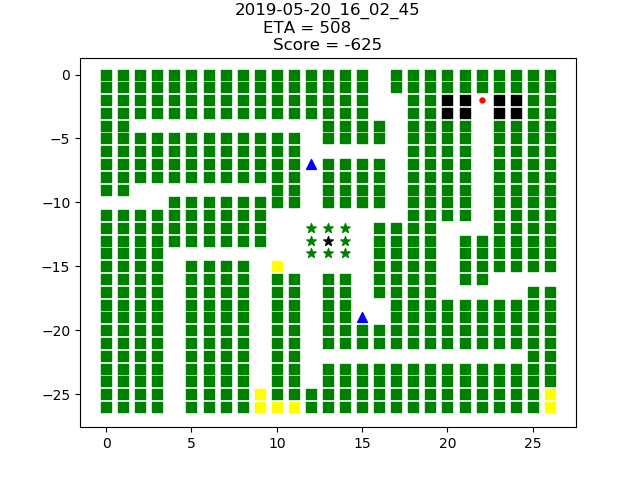
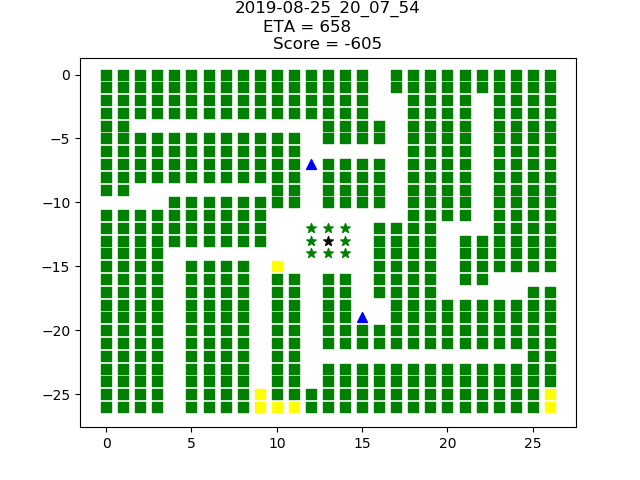
Readme

Changed region(s): [[0.3438, 0.0, 0.6562, 0.125], [0.6875, 0.1875, 0.8438, 0.25]]

diff --git a/GA_optimal_city_PLAN.py b/GA_optimal_city_PLAN.py
@@ -235,7 +235,7 @@ class CGenetic():
         #     power_map.append([])
         #     for col in range(self.COLUMNS):
         #         power_map[row].append
-        for k in range(20):
+        for k in range(25):
             f_path_updated = False
             for row,Row in enumerate(CityPlan):
                 for col,element in enumerate(Row):
@@ -718,8 +718,9 @@ refill=time_refill,eta=self.eta_now,logic=time_logic))
 
 cls()
 baza = CGenetic("Both",columns=27,rows=27,UNITS=10)
-baza.train(eta=10,shake_force=1,shake_chance=0.025,mutants_density=0.2,\
-    mutation_factor=0.2)
+for x in range(10):
+    baza.train(eta=1,shake_force=1,shake_chance=0.025,mutants_density=0.2,\
+        mutation_factor=0.2)
 
 # baza.train(eta=150,shake_force=1,shake_chance=0.01,mutants_density=0.5)
 # baza.train(eta=750,shake_force=1,shake_chance=0.002,mutants_density=0.5)

diff --git a/My_GA_Log.py b/My_GA_Log.py
@@ -3,6 +3,9 @@ import datetime
 import time
 
 class C_GA_Log():
+    '''
+    My Logging class
+    '''
     def __init__(self):
         self.reset()
 

diff --git a/README.md b/README.md
@@ -6,4 +6,24 @@ Idea came from game "They are billions"
 # Best Solution 
 Best city plan looks like triangle symmetry, we got 3 major paths. Algoritm is very heavy loaded, minor human adjustment is indicated.
 
+Score - the more the better, we add points for every green house
+
+Blank - path
+
+Triangle - Energy Tower
+
+Stars - Bank (must have road around itself)
+
+Squares - Houses, every house is builded of 4 parts, 
+> yellow: squares are not fully connected (ignored)
+> black: house has no path to outer side
+
+Red Dot - path without connection
+
 ![Alt](/City_Plan/Gold.png?raw=true "Golden Solution")
+
+# Please ignore PEP8
+This was my first project. Many things could be done better, including readability and syntax. Operations complexity, better approach to problem, better mutation methods.
+
+
+I did not want to use any GA library, I just wanted to train myself in python.
